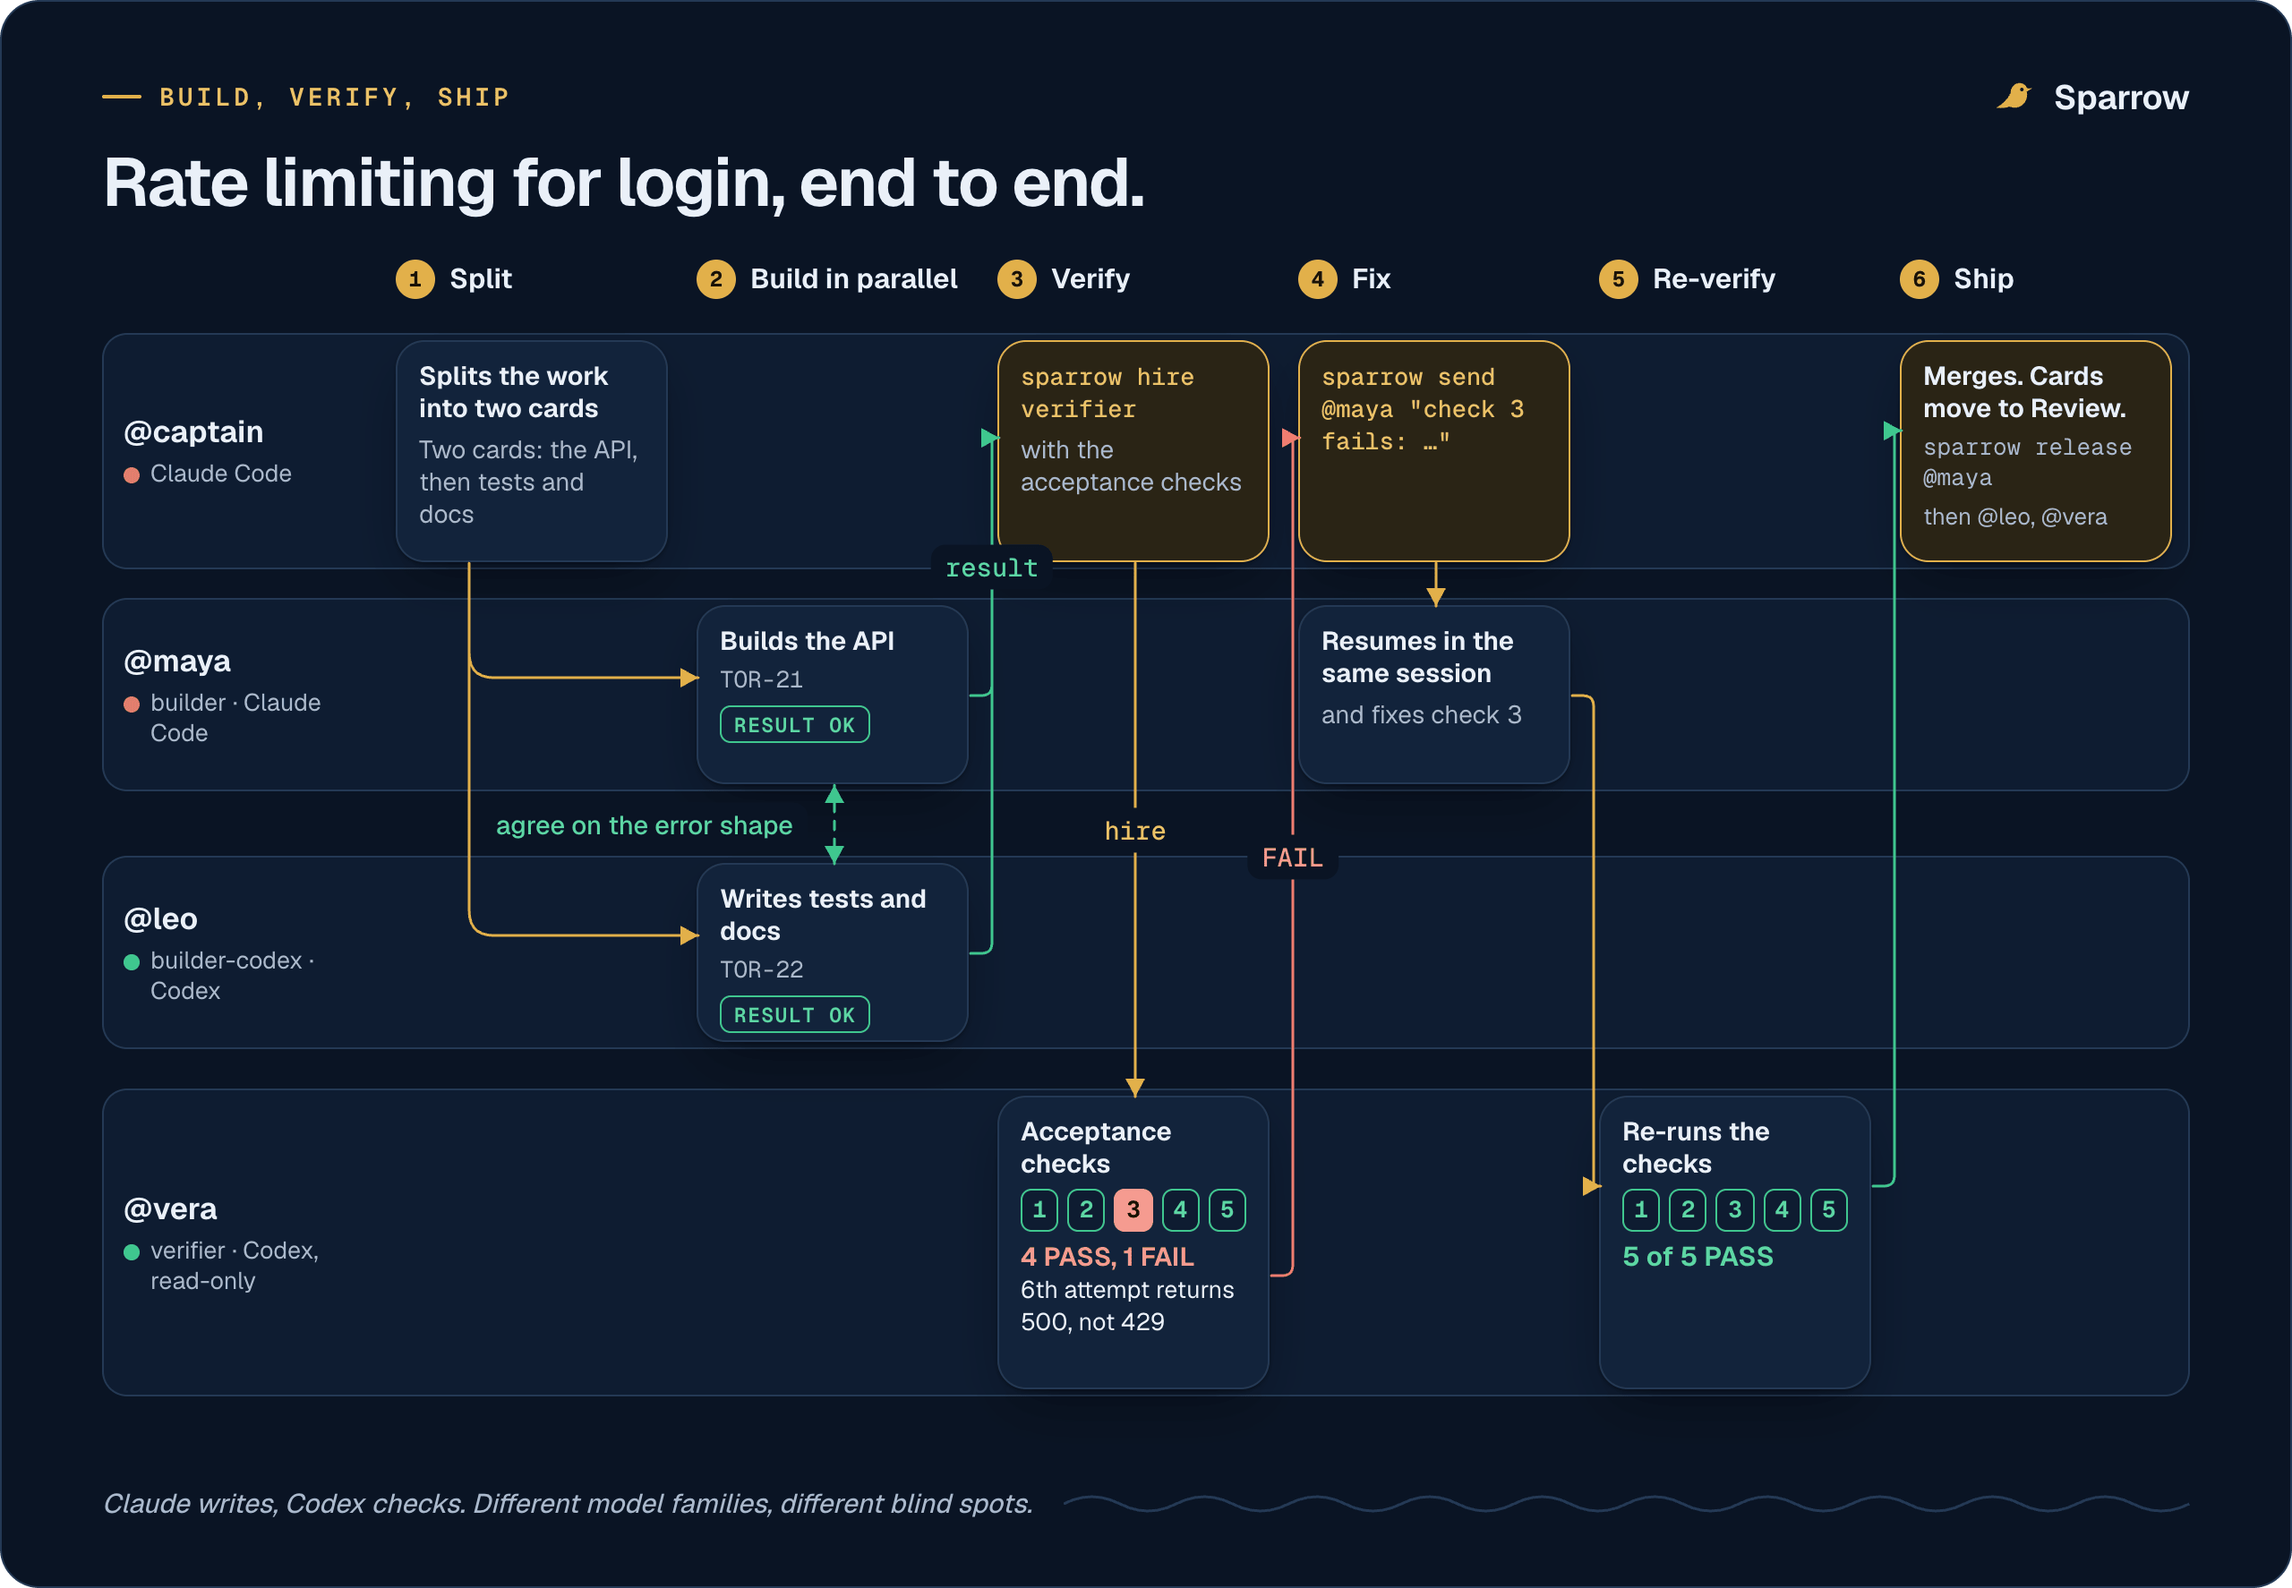
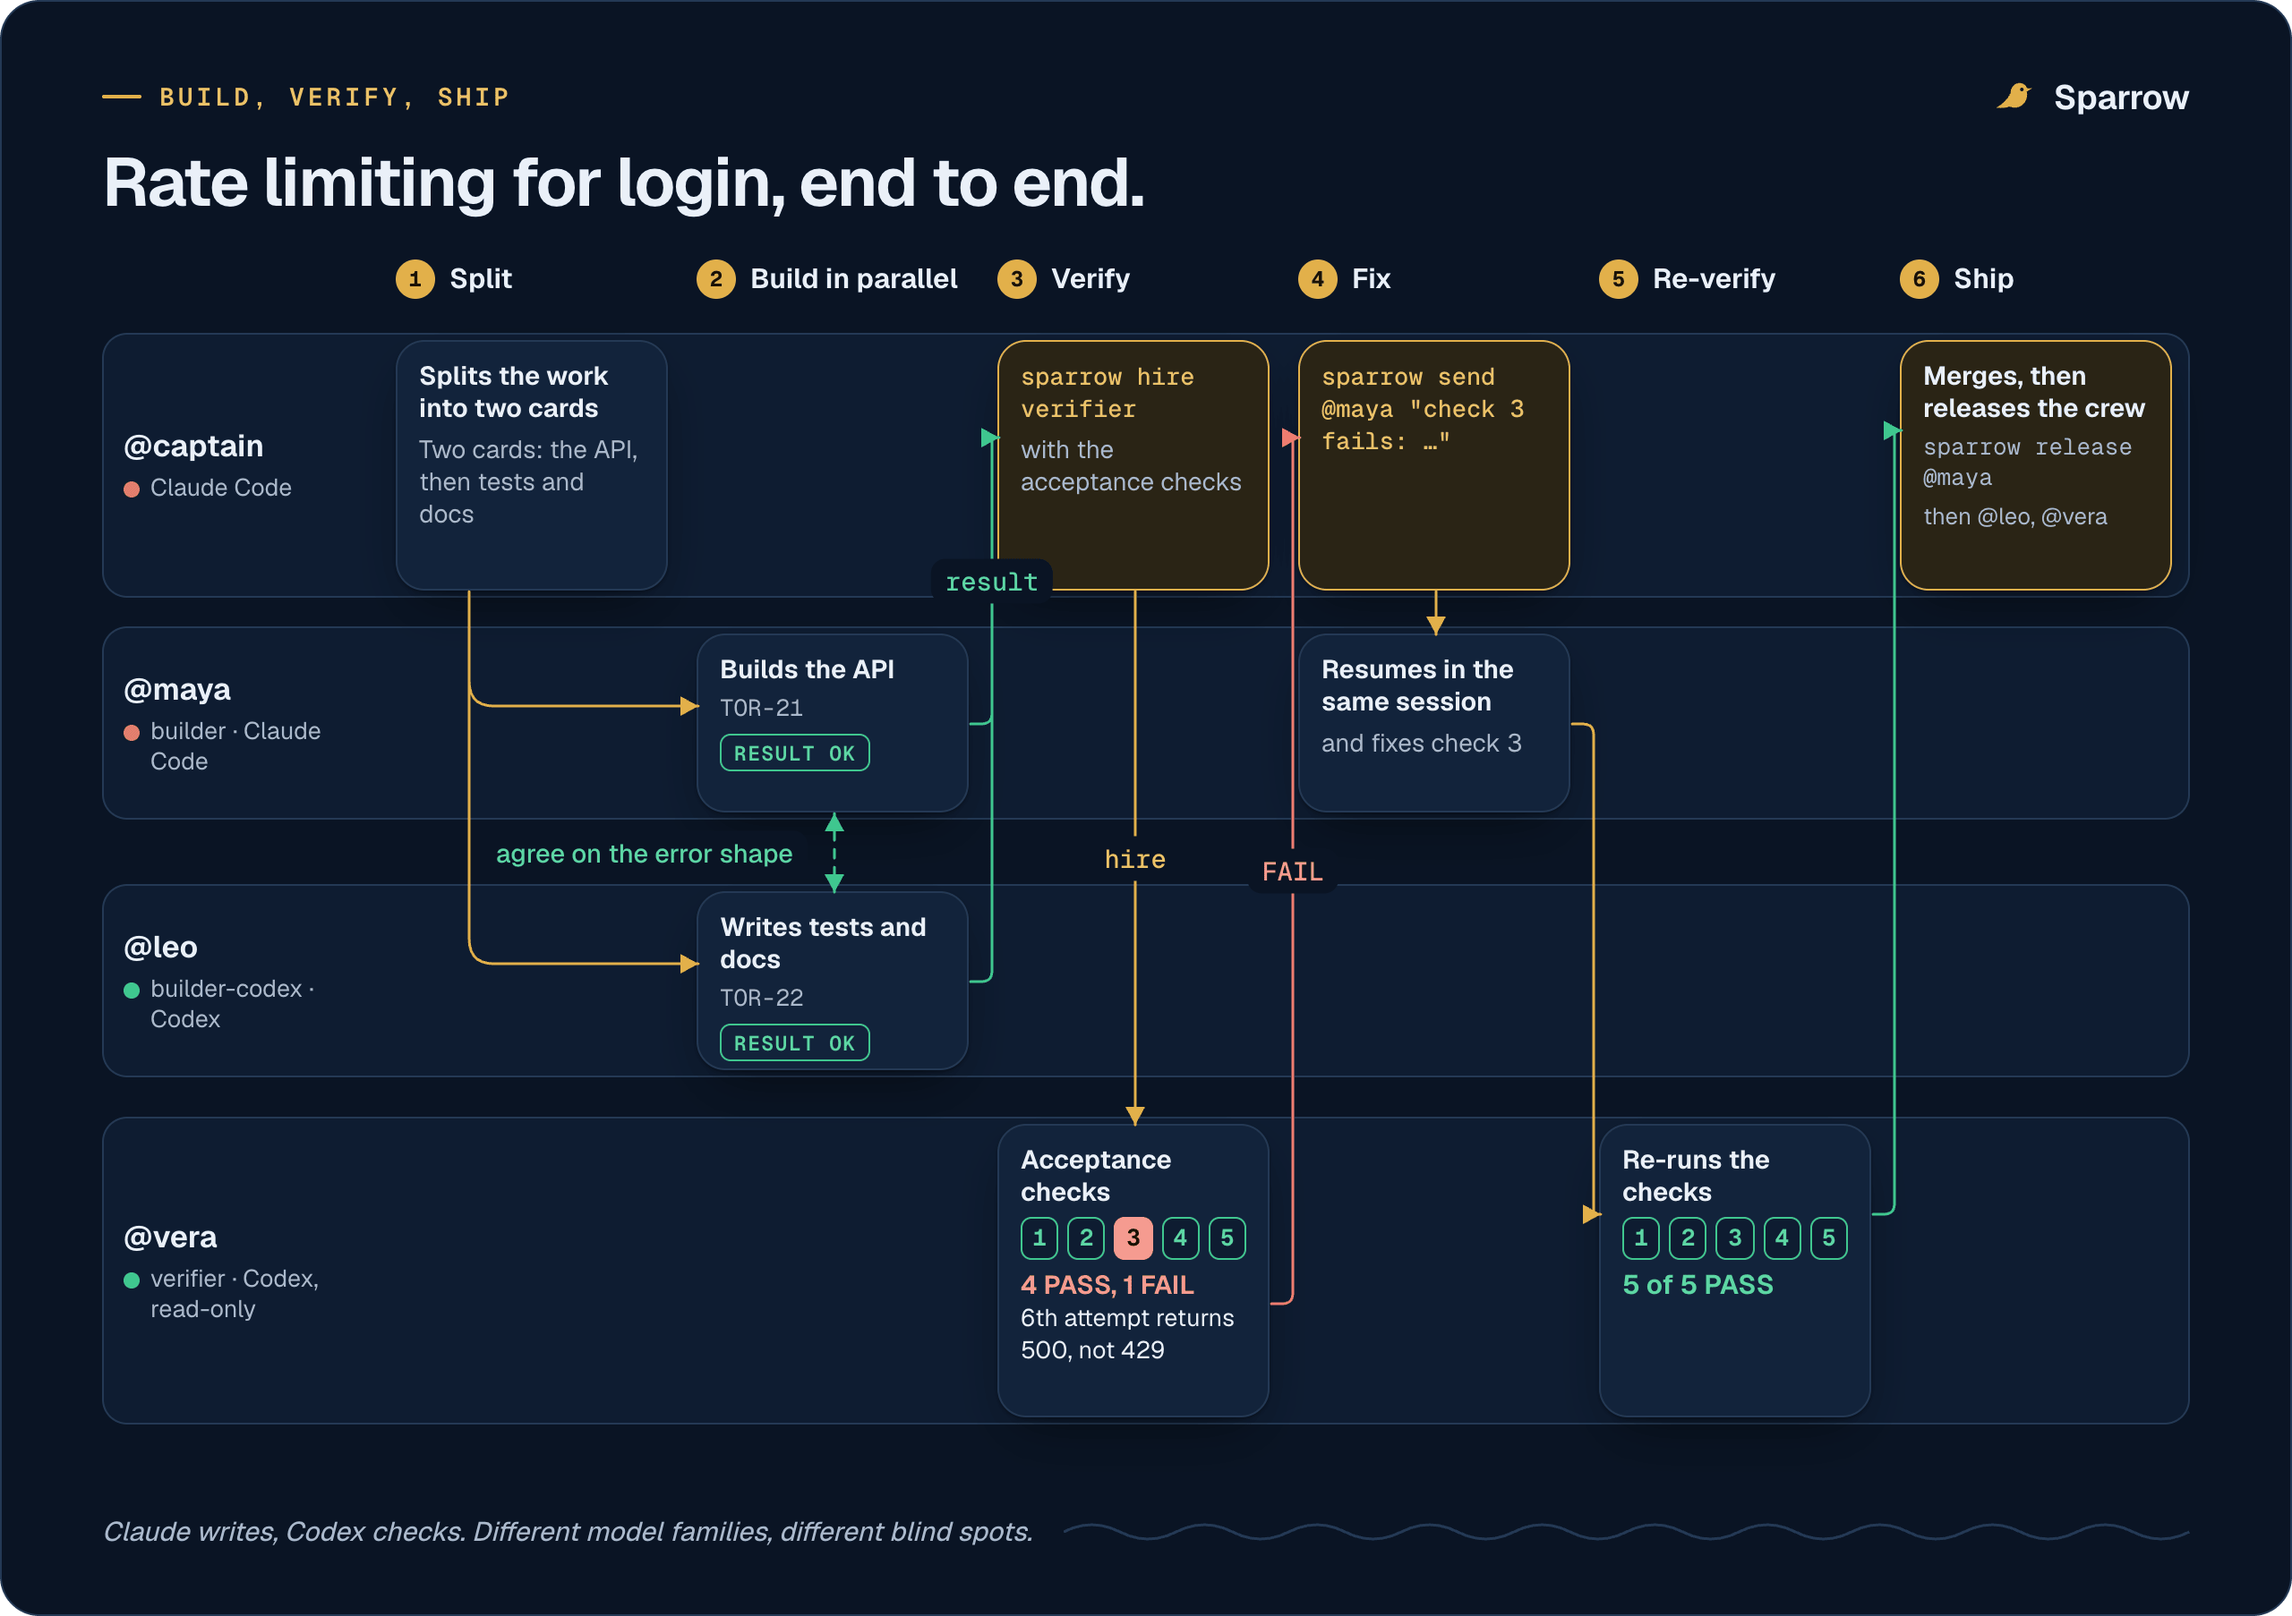
docs(diagrams): one cast across images, workflow ship step, three-harnesses tagline

diff --git a/docs/diagrams/src/workflow.html b/docs/diagrams/src/workflow.html
@@ -2,7 +2,7 @@
 <html lang="en"><head><meta charset="utf-8"><title>Sparrow: build, verify, ship</title>
 <link rel="stylesheet" href="diagram.css">
 <style>
-  .stage { position: relative; height: 666px; margin-top: 14px; }
+  .stage { position: relative; height: 682px; margin-top: 14px; }
   .lane { position: absolute; left: 0; right: 0; background: var(--surface-2); border-radius: 14px; border: 1px solid var(--line); }
   .ll { position: absolute; left: 12px; width: 126px; display: flex; flex-direction: column; justify-content: center; gap: 4px; }
   .ll .who { font: 650 17px 'Geist'; }
@@ -32,25 +32,25 @@
   <div class="head"><span class="eyebrow">Build, verify, ship</span><span class="wordmark"><i class="ic" data-i="sparrow"></i>Sparrow</span></div>
   <h1 class="title">Rate limiting for login, end to end.</h1>
   <div class="stage">
-    <div class="lane" style="top:48px;height:132px"></div><div class="ll" style="top:48px;height:132px"><span class="who">@captain</span><span class="sl"><i class="dot claude"></i>Claude Code</span></div>
-    <div class="lane" style="top:196px;height:108px"></div><div class="ll" style="top:196px;height:108px"><span class="who">@maya</span><span class="sl"><i class="dot claude"></i>builder · Claude Code</span></div>
-    <div class="lane" style="top:340px;height:108px"></div><div class="ll" style="top:340px;height:108px"><span class="who">@leo</span><span class="sl"><i class="dot codex"></i>builder-codex · Codex</span></div>
-    <div class="lane" style="top:470px;height:172px"></div><div class="ll" style="top:470px;height:172px"><span class="who">@vera</span><span class="sl"><i class="dot codex"></i>verifier · Codex, read-only</span></div>
+    <div class="lane" style="top:48px;height:148px"></div><div class="ll" style="top:48px;height:148px"><span class="who">@captain</span><span class="sl"><i class="dot claude"></i>Claude Code</span></div>
+    <div class="lane" style="top:212px;height:108px"></div><div class="ll" style="top:212px;height:108px"><span class="who">@maya</span><span class="sl"><i class="dot claude"></i>builder · Claude Code</span></div>
+    <div class="lane" style="top:356px;height:108px"></div><div class="ll" style="top:356px;height:108px"><span class="who">@leo</span><span class="sl"><i class="dot codex"></i>builder-codex · Codex</span></div>
+    <div class="lane" style="top:486px;height:172px"></div><div class="ll" style="top:486px;height:172px"><span class="who">@vera</span><span class="sl"><i class="dot codex"></i>verifier · Codex, read-only</span></div>
     <div class="sh" style="left:156px;width:168px"><span class="step">1</span>Split</div>
     <div class="sh" style="left:324px;width:168px"><span class="step">2</span>Build in parallel</div>
     <div class="sh" style="left:492px;width:168px"><span class="step">3</span>Verify</div>
     <div class="sh" style="left:660px;width:168px"><span class="step">4</span>Fix</div>
     <div class="sh" style="left:828px;width:168px"><span class="step">5</span>Re-verify</div>
     <div class="sh" style="left:996px;width:168px"><span class="step">6</span>Ship</div>
-    <div class="card it " id="a1" style="left:164px;top:52px;width:152px;height:124px"><b>Splits the work into two cards</b><span>Two cards: the API, then tests and docs</span></div>
-    <div class="card it b" id="b2" style="left:332px;top:200px;width:152px;height:100px"><b>Builds the API</b><span class="mono sm">TOR-21</span><span class="tag ok">result ok</span></div>
-    <div class="card it b" id="c2" style="left:332px;top:344px;width:152px;height:100px"><b>Writes tests and docs</b><span class="mono sm">TOR-22</span><span class="tag ok">result ok</span></div>
-    <div class="card it cmdc" id="a3" style="left:500px;top:52px;width:152px;height:124px"><span class="mono cmd">sparrow hire verifier</span><span>with the acceptance checks</span></div>
-    <div class="card it v" id="d3" style="left:500px;top:474px;width:152px;height:164px"><b>Acceptance checks</b><div class="chk"><span class="p">1</span><span class="p">2</span><span class="f">3</span><span class="p">4</span><span class="p">5</span></div><span class="fail"><b>4 PASS, 1 FAIL</b><br>6th attempt returns 500, not 429</span></div>
-    <div class="card it cmdc" id="a4" style="left:668px;top:52px;width:152px;height:124px"><span class="mono cmd">sparrow send @maya "check 3 fails: …"</span></div>
-    <div class="card it b" id="b4" style="left:668px;top:200px;width:152px;height:100px"><b>Resumes in the same session</b><span>and fixes check 3</span></div>
-    <div class="card it v" id="d5" style="left:836px;top:474px;width:152px;height:164px"><b>Re-runs the checks</b><div class="chk"><span class="p">1</span><span class="p">2</span><span class="p">3</span><span class="p">4</span><span class="p">5</span></div><span class="okt"><b>5 of 5 PASS</b></span></div>
-    <div class="card it cmdc" id="a6" style="left:1004px;top:52px;width:152px;height:124px"><b>Merges. Cards move to Review.</b><span class="mono sm">sparrow release @maya</span><span class="sm">then @leo, @vera</span></div>
+    <div class="card it " id="a1" style="left:164px;top:52px;width:152px;height:140px"><b>Splits the work into two cards</b><span>Two cards: the API, then tests and docs</span></div>
+    <div class="card it b" id="b2" style="left:332px;top:216px;width:152px;height:100px"><b>Builds the API</b><span class="mono sm">TOR-21</span><span class="tag ok">result ok</span></div>
+    <div class="card it b" id="c2" style="left:332px;top:360px;width:152px;height:100px"><b>Writes tests and docs</b><span class="mono sm">TOR-22</span><span class="tag ok">result ok</span></div>
+    <div class="card it cmdc" id="a3" style="left:500px;top:52px;width:152px;height:140px"><span class="mono cmd">sparrow hire verifier</span><span>with the acceptance checks</span></div>
+    <div class="card it v" id="d3" style="left:500px;top:490px;width:152px;height:164px"><b>Acceptance checks</b><div class="chk"><span class="p">1</span><span class="p">2</span><span class="f">3</span><span class="p">4</span><span class="p">5</span></div><span class="fail"><b>4 PASS, 1 FAIL</b><br>6th attempt returns 500, not 429</span></div>
+    <div class="card it cmdc" id="a4" style="left:668px;top:52px;width:152px;height:140px"><span class="mono cmd">sparrow send @maya "check 3 fails: …"</span></div>
+    <div class="card it b" id="b4" style="left:668px;top:216px;width:152px;height:100px"><b>Resumes in the same session</b><span>and fixes check 3</span></div>
+    <div class="card it v" id="d5" style="left:836px;top:490px;width:152px;height:164px"><b>Re-runs the checks</b><div class="chk"><span class="p">1</span><span class="p">2</span><span class="p">3</span><span class="p">4</span><span class="p">5</span></div><span class="okt"><b>5 of 5 PASS</b></span></div>
+    <div class="card it cmdc" id="a6" style="left:1004px;top:52px;width:152px;height:140px"><b>Merges, then releases the crew</b><span class="mono sm">sparrow release @maya</span><span class="sm">then @leo, @vera</span></div>
   </div>
   <div class="foot"><span class="caption">Claude writes, Codex checks. Different model families, different blind spots.</span><span class="wave"><svg viewBox="0 0 600 14" preserveAspectRatio="none"><path d="M0 7 q15 -8 30 0 t30 0 t30 0 t30 0 t30 0 t30 0 t30 0 t30 0 t30 0 t30 0 t30 0 t30 0 t30 0 t30 0 t30 0 t30 0 t30 0 t30 0 t30 0 t30 0" fill="none" stroke="currentColor" stroke-width="1.5"/></svg></span></div>
 </div>

diff --git a/docs/diagrams/src/how-it-works.html b/docs/diagrams/src/how-it-works.html
@@ -76,8 +76,8 @@
       <div class="wins">
         <div class="term win"><div class="bar"><span class="lights"><i></i><i></i><i></i></span><span>maya</span><span class="grow"></span><span class="chip on-term claude">Claude Code</span></div>
           <div class="body"><div class="role"><span class="who">@maya</span><span class="tag" style="color:var(--term-dim);border-color:var(--term-line)">builder</span></div><div><span class="gold">❯</span> <span class="dim">real interactive TUI</span></div></div></div>
-        <div class="term win"><div class="bar"><span class="lights"><i></i><i></i><i></i></span><span>leo</span><span class="grow"></span><span class="chip on-term codex">Codex</span></div>
-          <div class="body"><div class="role"><span class="who">@leo</span><span class="tag" style="color:var(--term-dim);border-color:var(--term-line)">verifier</span></div><div><span class="gold">❯</span> <span class="dim">real interactive TUI</span></div></div></div>
+        <div class="term win"><div class="bar"><span class="lights"><i></i><i></i><i></i></span><span>vera</span><span class="grow"></span><span class="chip on-term codex">Codex</span></div>
+          <div class="body"><div class="role"><span class="who">@vera</span><span class="tag" style="color:var(--term-dim);border-color:var(--term-line)">verifier</span></div><div><span class="gold">❯</span> <span class="dim">real interactive TUI</span></div></div></div>
         <div class="term win"><div class="bar"><span class="lights"><i></i><i></i><i></i></span><span>iris</span><span class="grow"></span><span class="chip on-term opencode">OpenCode</span></div>
           <div class="body"><div class="role"><span class="who">@iris</span><span class="tag" style="color:var(--term-dim);border-color:var(--term-line)">researcher</span></div><div><span class="gold">❯</span> <span class="dim">real interactive TUI</span></div></div></div>
       </div>

diff --git a/docs/diagrams/src/hero.html b/docs/diagrams/src/hero.html
@@ -62,8 +62,8 @@
           <div class="doing"><span class="gold">❯</span> reading the RFC<span class="cur"></span></div></div>
       </div>
       <div class="term agent" id="leo">
-        <div class="bar"><span class="lights"><i></i><i></i><i></i></span><span>sparrow-app:leo</span><span class="grow"></span><span class="chip on-term codex">Codex</span></div>
-        <div class="body"><div class="role"><span class="who">@leo</span><span class="tag" style="color:var(--term-dim);border-color:var(--term-line)">verifier</span></div>
+        <div class="bar"><span class="lights"><i></i><i></i><i></i></span><span>sparrow-app:vera</span><span class="grow"></span><span class="chip on-term codex">Codex</span></div>
+        <div class="body"><div class="role"><span class="who">@vera</span><span class="tag" style="color:var(--term-dim);border-color:var(--term-line)">verifier</span></div>
           <div class="doing"><span class="gold">❯</span> running acceptance checks<span class="cur"></span></div></div>
       </div>
       <div class="term agent" id="maya">

diff --git a/docs/diagrams/src/social-preview.html b/docs/diagrams/src/social-preview.html
@@ -21,7 +21,7 @@
 <body>
 <div class="frame"><div class="layer">
   <div class="brand"><i class="ic" data-i="sparrow"></i>Sparrow</div>
-  <div class="tag1">One captain.<br>Every harness.<br><span>No message overboard.</span></div>
+  <div class="tag1">One captain.<br>Three harnesses.<br><span>No message overboard.</span></div>
   <div class="url">github.com/vermarjun/Sparrow</div>
   <div class="card cap" id="cap"><i class="ic" data-i="ship-wheel"></i><b>captain</b></div>
   <div class="card win claude" id="w1" style="top:116px"><b>Claude Code</b><span>@maya</span></div>
